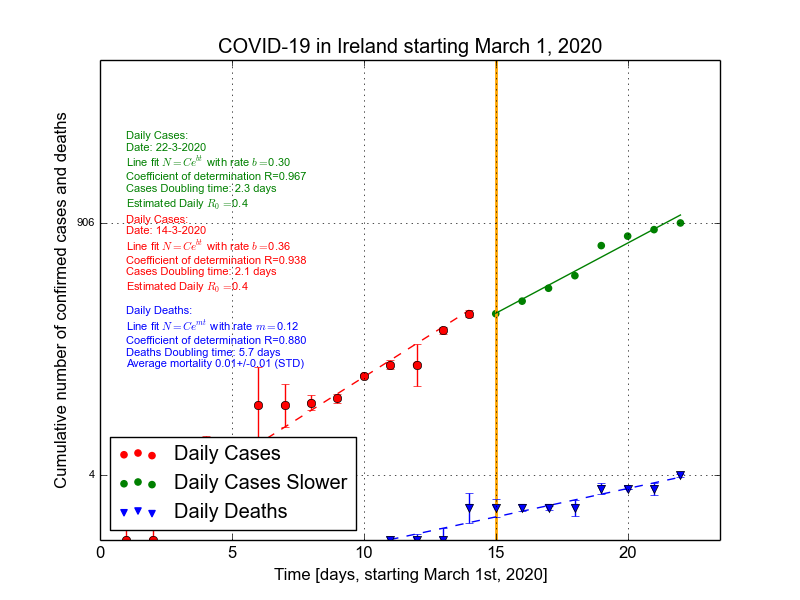
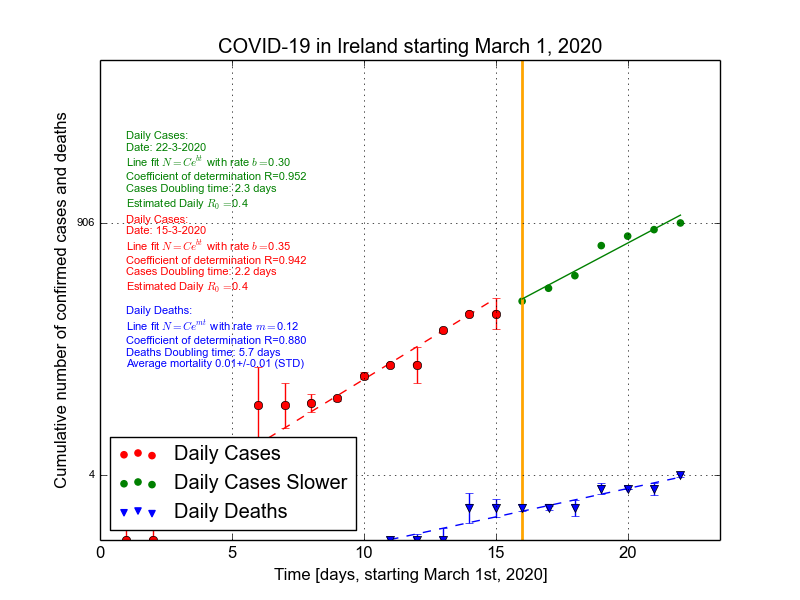
slowdown in Poland

diff --git a/cov_lin_models_refactored.py b/cov_lin_models_refactored.py
@@ -37,9 +37,10 @@ JOHN_HOPKINS = "https://raw.githubusercontent.com/CSSEGISandData/COVID-19/master
 SLOWDOWN = {"Belgium": 13,
             "Denmark": 13, 
             "Finland": 14,
-            "Ireland": 15,
+            "Ireland": 16,
             "Netherlands": 13,
             "Norway": 14,
+            "Poland": 16,
             "Sweden": 13}
 
 
